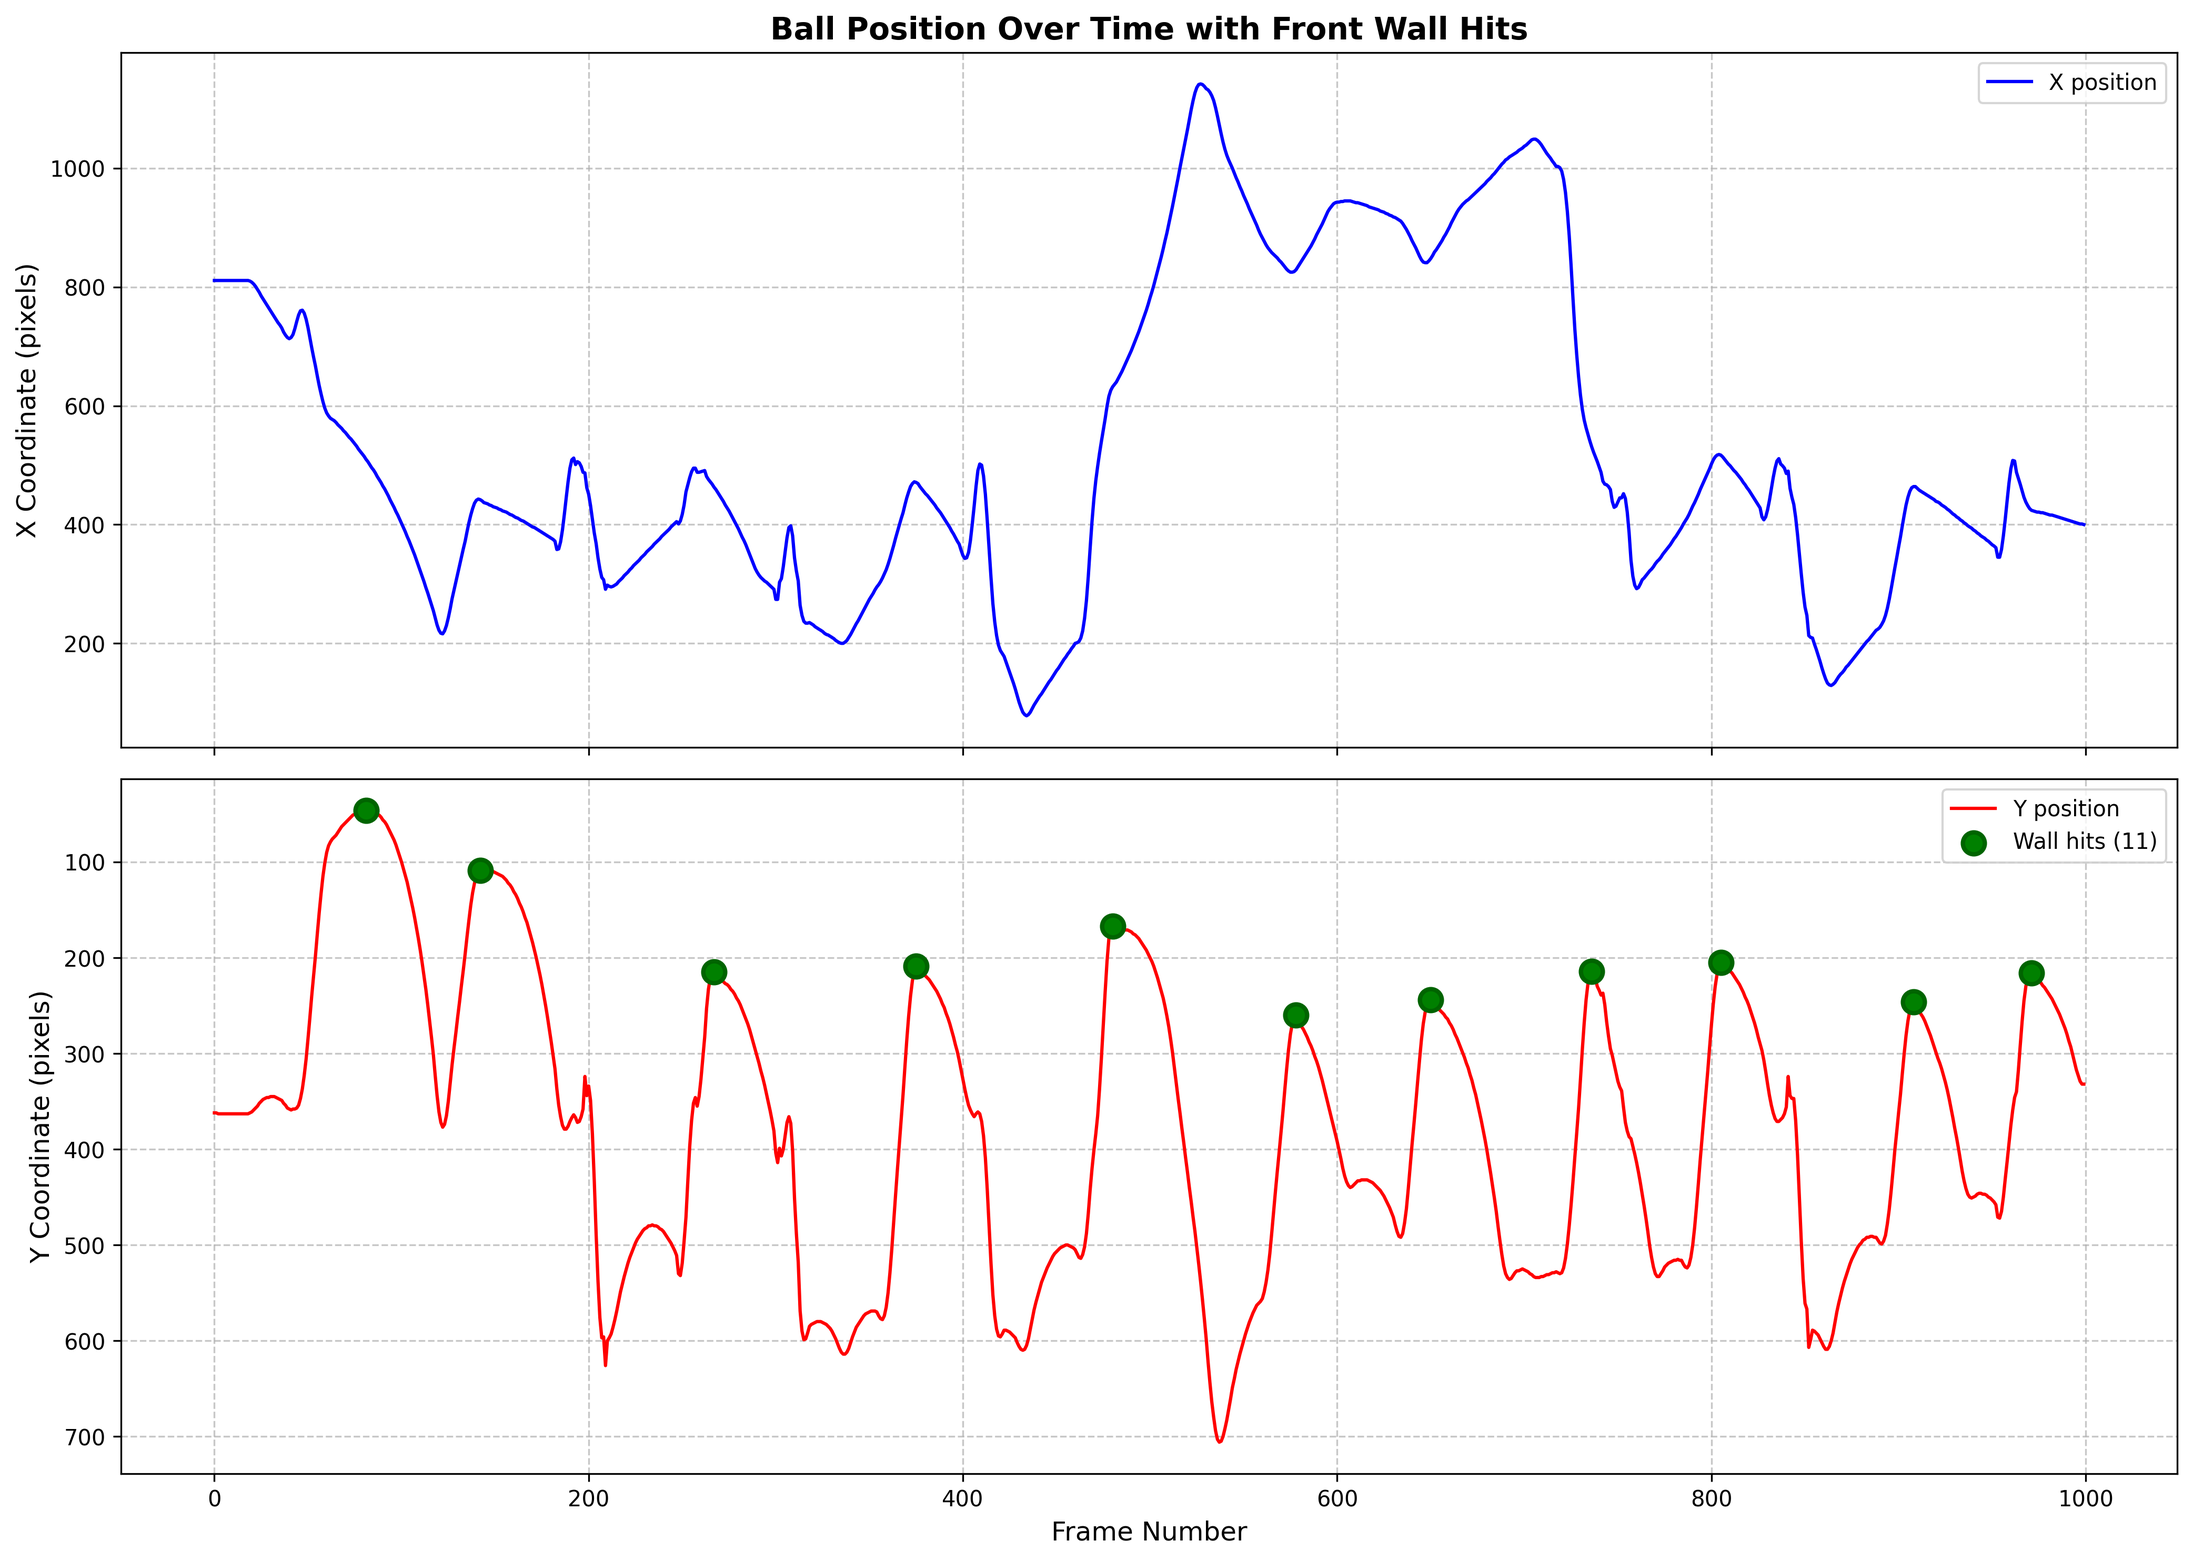
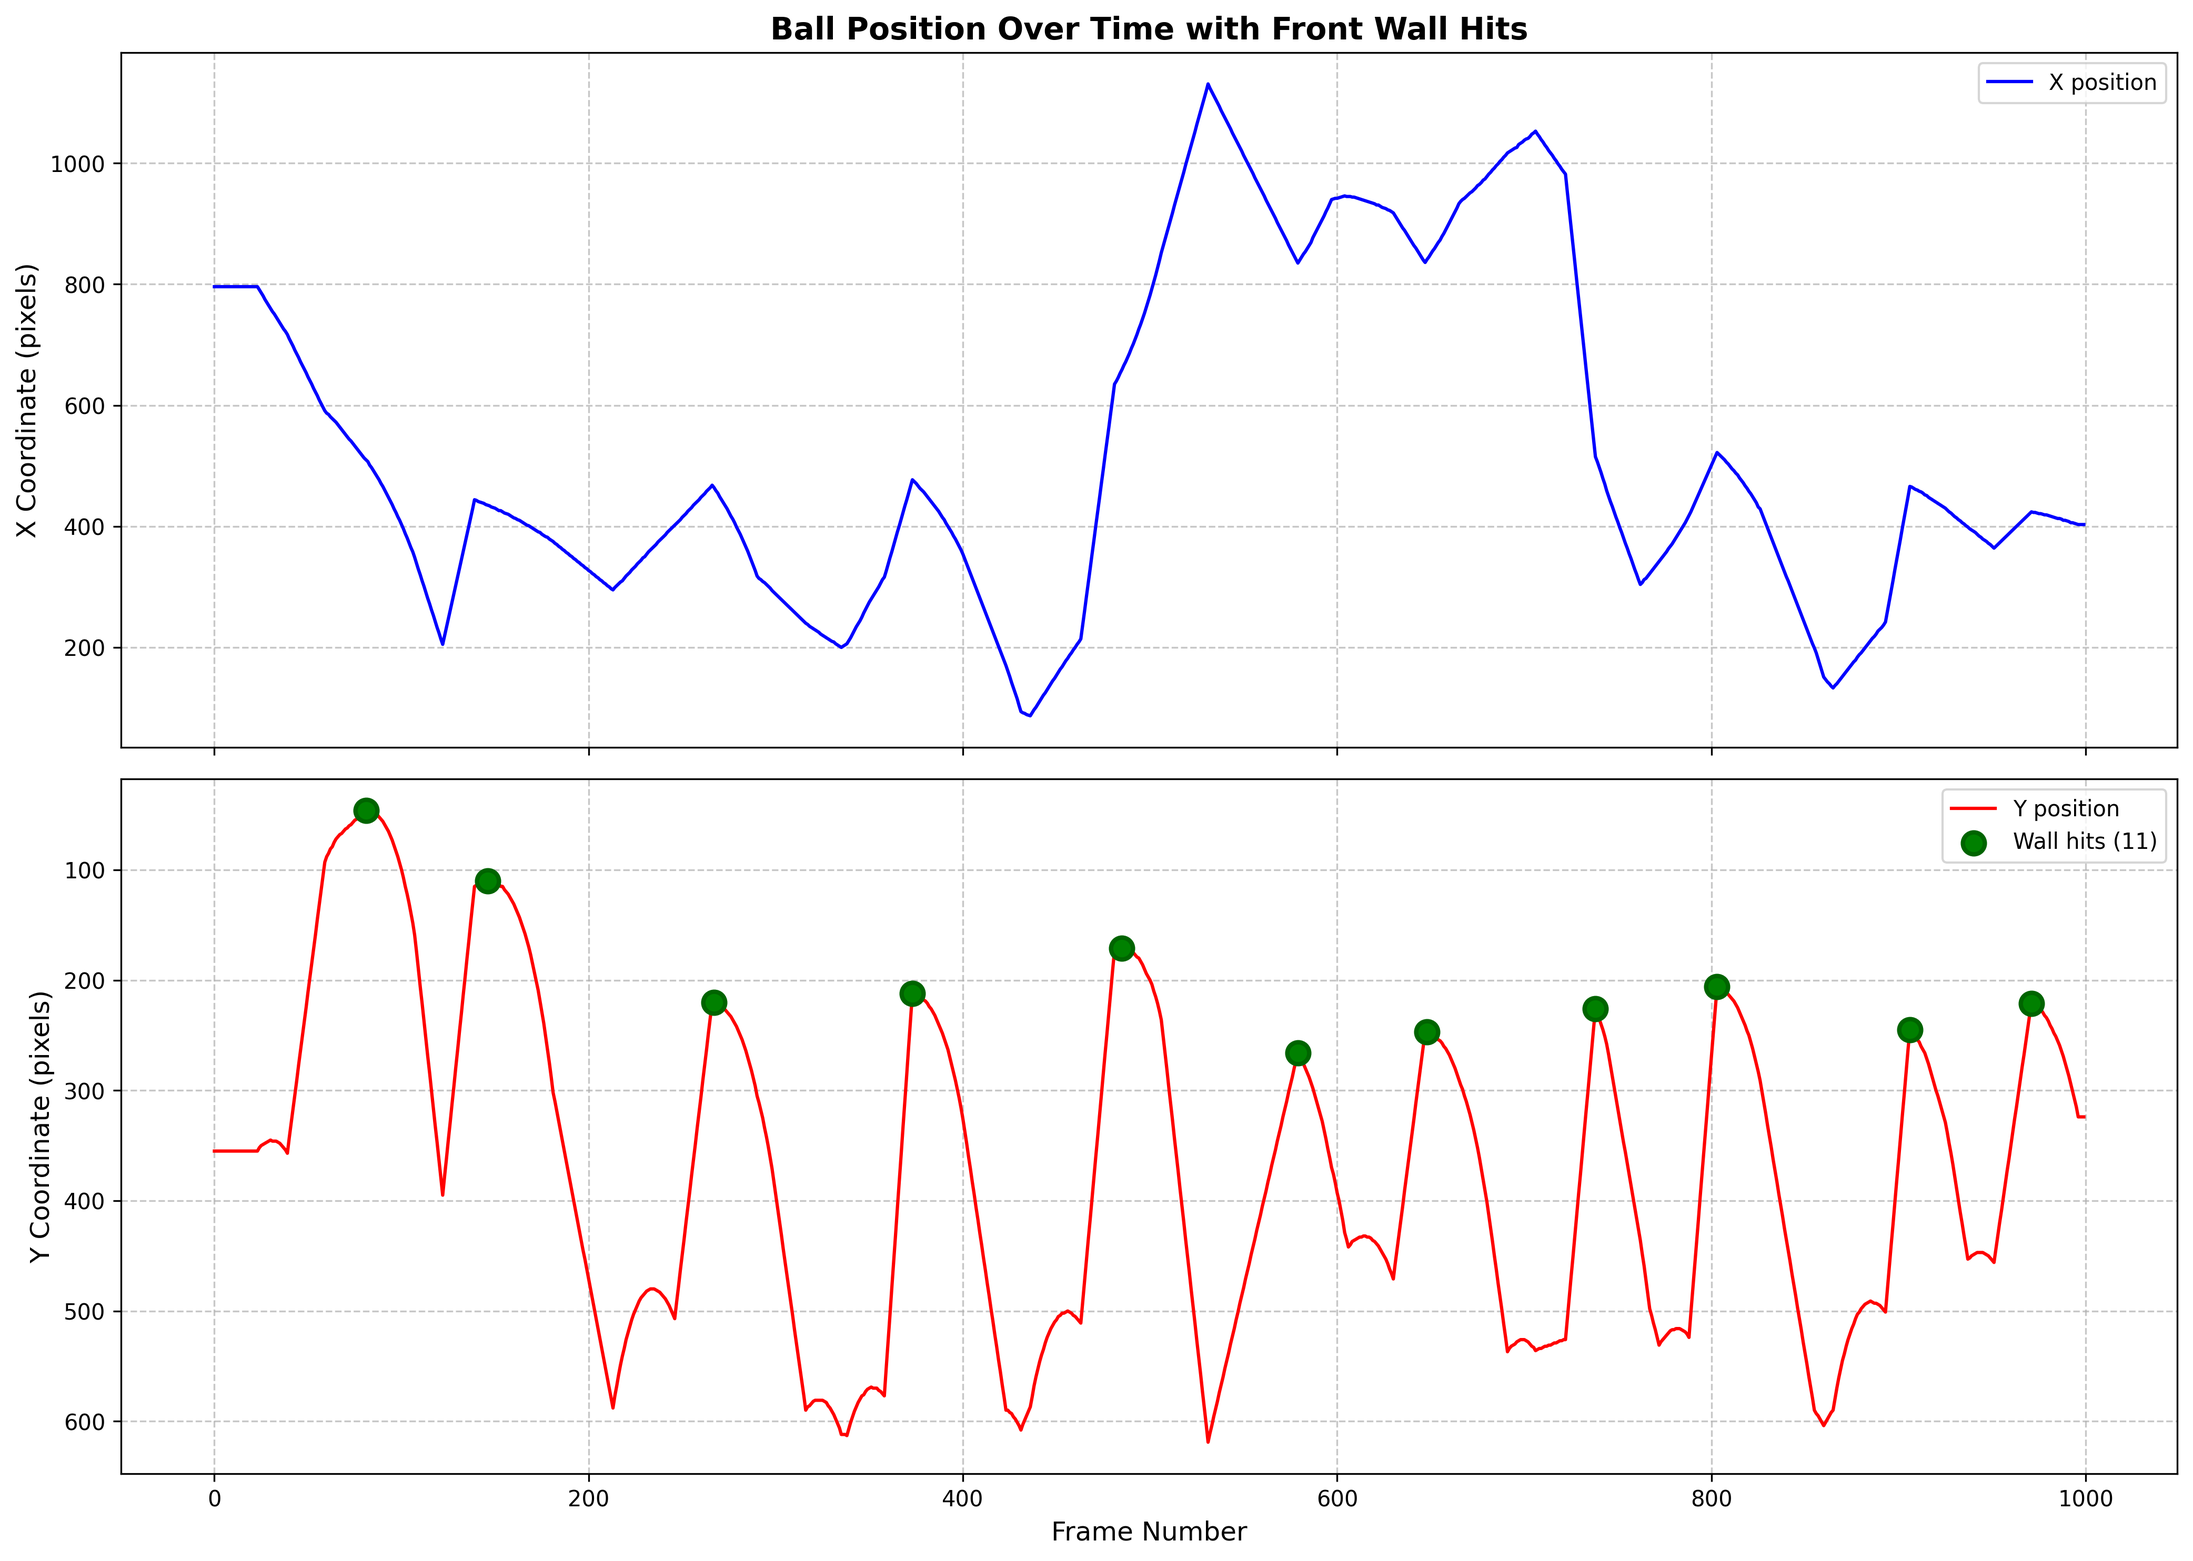
simplify postprocessing

diff --git a/cv-module/digitization/detection-tracking/ball-detection/implementation/utilities/postprocessing.py b/cv-module/digitization/detection-tracking/ball-detection/implementation/utilities/postprocessing.py
@@ -1,11 +1,10 @@
 """
-Simple postprocessing for ball tracking data focused on wall hit detection.
+Simple postprocessing for ball tracking data.
 
-For detecting wall hits, we need clean Y-coordinate curves to see direction changes.
 This module provides:
-1. Outlier removal (removes position jumps from bad detections)
-2. Imputation (fills missing values)
-3. Smoothing (makes the position curve clean and clear)
+1. Motion filter (removes stationary detections - likely false positives)
+2. Outlier removal using rolling window distance check
+3. Linear interpolation for missing values
 """
 
 import numpy as np
@@ -13,19 +12,72 @@ from scipy.signal import savgol_filter, medfilt
 from typing import List, Tuple, Optional
 
 
-def remove_outliers(
+def remove_stationary_detections(
     positions: List[Tuple[Optional[float], Optional[float]]],
-    window: int = 7,
-    threshold: float = 2.5,
+    window: int = 15,
+    movement_threshold: float = 10,
 ) -> List[Tuple[Optional[float], Optional[float]]]:
-    """Remove outlier positions using median filtering.
+    """Remove detections that remain stationary (likely false positives).
 
-    Detects positions that deviate significantly from their local neighborhood.
+    If a detection stays in roughly the same position for multiple frames,
+    it's likely a static object being misdetected as a ball (e.g., circle on tin).
 
     Args:
         positions: List of (x, y) tuples
-        window: Size of local neighborhood to compare against
-        threshold: Number of standard deviations to be considered an outlier
+        window: Number of frames to check for movement (default: 15 frames)
+        movement_threshold: Maximum total movement in pixels to be considered stationary (default: 10 pixels)
+
+    Returns:
+        Positions with stationary detections marked as (None, None)
+    """
+    n = len(positions)
+    result = list(positions)
+
+    for i in range(n):
+        if positions[i][0] is None or positions[i][1] is None:
+            continue
+
+        current_x, current_y = positions[i]
+
+        # Get positions in the forward window
+        end = min(n, i + window)
+
+        # Collect valid positions in the window
+        window_positions = []
+        for j in range(i, end):
+            if positions[j][0] is not None and positions[j][1] is not None:
+                window_positions.append(positions[j])
+
+        if len(window_positions) < window // 2:
+            # Not enough frames to make a decision
+            continue
+
+        # Calculate max distance moved from current position
+        max_distance = 0
+        for wx, wy in window_positions:
+            dist = np.sqrt((current_x - wx) ** 2 + (current_y - wy) ** 2)
+            max_distance = max(max_distance, dist)
+
+        # If the detection barely moves, mark it as stationary (false positive)
+        if max_distance <= movement_threshold:
+            result[i] = (None, None)
+
+    return result
+
+
+def remove_outliers(
+    positions: List[Tuple[Optional[float], Optional[float]]],
+    window: int = 10,
+    threshold: float = 100,
+) -> List[Tuple[Optional[float], Optional[float]]]:
+    """Remove outlier positions using rolling window distance check.
+
+    Detects positions that are too far from the average position of neighbors.
+
+    Args:
+        positions: List of (x, y) tuples
+        window: Size of rolling window (default: 10 frames)
+        threshold: Maximum distance in pixels from average of neighbors (default: 100 pixels)
 
     Returns:
         Positions with outliers marked as (None, None)
@@ -33,37 +85,41 @@ def remove_outliers(
     n = len(positions)
     result = list(positions)
 
-    # Convert to arrays
-    x_coords = np.array([p[0] if p[0] is not None else np.nan for p in positions])
-    y_coords = np.array([p[1] if p[1] is not None else np.nan for p in positions])
+    for i in range(n):
+        if positions[i][0] is None or positions[i][1] is None:
+            continue
 
-    # Check each coordinate separately
-    for coords, axis in [(x_coords, 'x'), (y_coords, 'y')]:
-        for i in range(n):
-            if np.isnan(coords[i]):
-                continue
+        current_x, current_y = positions[i]
 
-            # Get local window
-            start = max(0, i - window // 2)
-            end = min(n, i + window // 2 + 1)
-            local = coords[start:end]
-            local = local[~np.isnan(local)]
+        # Get neighboring positions in the window
+        start = max(0, i - window // 2)
+        end = min(n, i + window // 2 + 1)
 
-            if len(local) < 3:
-                continue
+        neighbors = []
+        for j in range(start, end):
+            if j != i and positions[j][0] is not None and positions[j][1] is not None:
+                neighbors.append(positions[j])
 
-            # Check if point is an outlier compared to local median
-            median = np.median(local)
-            std = np.std(local)
+        if len(neighbors) < 2:
+            # Need at least 2 neighbors to calculate average
+            continue
 
-            if std > 0 and abs(coords[i] - median) > threshold * std:
-                result[i] = (None, None)
+        # Calculate average position of neighbors
+        avg_x = np.mean([nx for nx, ny in neighbors])
+        avg_y = np.mean([ny for nx, ny in neighbors])
+
+        # Calculate distance from current position to average of neighbors
+        distance = np.sqrt((current_x - avg_x) ** 2 + (current_y - avg_y) ** 2)
+
+        # If distance from average is >= threshold, mark as outlier
+        if distance >= threshold:
+            result[i] = (None, None)
 
     return result
 
 
 def impute_missing(
-    positions: List[Tuple[Optional[float], Optional[float]]]
+    positions: List[Tuple[Optional[float], Optional[float]]],
 ) -> List[Tuple[float, float]]:
     """Fill missing values using linear interpolation.
 
@@ -94,51 +150,10 @@ def impute_missing(
             valid_indices,
             valid_values,
             left=valid_values[0],
-            right=valid_values[-1]
+            right=valid_values[-1],
         )
 
     return [(int(x), int(y)) for x, y in zip(x_coords, y_coords)]
-
-
-def smooth_positions(
-    positions: List[Tuple[float, float]],
-    method: str = "savgol",
-    window: int = 7,
-    poly: int = 2,
-) -> List[Tuple[float, float]]:
-    """Smooth the position curve to make direction changes clear.
-
-    Args:
-        positions: List of (x, y) tuples
-        method: "savgol" (default) or "median"
-        window: Window size (must be odd)
-        poly: Polynomial order for savgol (2 or 3 recommended)
-
-    Returns:
-        Smoothed positions
-    """
-    if len(positions) < window:
-        return positions
-
-    # Ensure window is odd
-    if window % 2 == 0:
-        window += 1
-
-    x_coords = np.array([p[0] for p in positions], dtype=float)
-    y_coords = np.array([p[1] for p in positions], dtype=float)
-
-    if method == "savgol":
-        # Savitzky-Golay filter - good for preserving peaks and valleys
-        x_smooth = savgol_filter(x_coords, window, poly)
-        y_smooth = savgol_filter(y_coords, window, poly)
-    elif method == "median":
-        # Median filter - good for removing spikes
-        x_smooth = medfilt(x_coords, kernel_size=window)
-        y_smooth = medfilt(y_coords, kernel_size=window)
-    else:
-        return positions
-
-    return [(int(x), int(y)) for x, y in zip(x_smooth, y_smooth)]
 
 
 def postprocess_positions(
@@ -149,9 +164,9 @@ def postprocess_positions(
     """Simple 3-step postprocessing pipeline.
 
     Steps:
-    1. Remove outliers (bad detections)
-    2. Fill missing values (interpolation)
-    3. Smooth the curve (make Y direction changes clear)
+    1. Remove stationary detections (filters false positives like circles on tin)
+    2. Remove outliers using rolling window distance check
+    3. Fill missing values using linear interpolation
 
     Args:
         positions: Raw position data
@@ -159,7 +174,7 @@ def postprocess_positions(
         config: Configuration with postprocessing settings
 
     Returns:
-        Clean, smooth position data ready for wall hit detection
+        Clean position data with false positives removed and gaps interpolated
     """
     if not config.get("enabled", True):
         # If postprocessing disabled, just fill missing values
@@ -167,33 +182,34 @@ def postprocess_positions(
 
     print("Postprocessing ball positions...")
 
-    # Step 1: Remove outliers
+    # Step 1: Remove stationary detections (false positives)
+    motion_config = config.get("motion_filter", {})
+    if motion_config.get("enabled", True):
+        filtered = remove_stationary_detections(
+            positions,
+            window=motion_config.get("window", 15),
+            movement_threshold=motion_config.get("movement_threshold", 10),
+        )
+        n_stationary = sum(1 for i, p in enumerate(filtered) if p[0] is None and positions[i][0] is not None)
+        if n_stationary > 0:
+            print(f"  Removed {n_stationary} stationary detections (likely false positives)")
+    else:
+        filtered = positions
+
+    # Step 2: Remove outliers
     outlier_config = config.get("outlier_detection", {})
     cleaned = remove_outliers(
-        positions,
-        window=outlier_config.get("window", 7),
-        threshold=outlier_config.get("threshold", 2.5)
+        filtered,
+        window=outlier_config.get("window", 10),
+        threshold=outlier_config.get("threshold", 100),
     )
-    n_outliers = sum(1 for p in cleaned if p[0] is None)
+    n_outliers = sum(1 for i, p in enumerate(cleaned) if p[0] is None and filtered[i][0] is not None)
     if n_outliers > 0:
         print(f"  Removed {n_outliers} outliers")
 
-    # Step 2: Fill missing values
+    # Step 3: Fill missing values with interpolation
     imputed = impute_missing(cleaned)
-    print(f"  Filled missing values")
-
-    # Step 3: Smooth the curve
-    smoothing_config = config.get("smoothing", {})
-    if smoothing_config.get("enabled", True):
-        smoothed = smooth_positions(
-            imputed,
-            method=smoothing_config.get("method", "savgol"),
-            window=smoothing_config.get("window", 7),
-            poly=smoothing_config.get("poly", 2)
-        )
-        print(f"  Smoothed curve (window={smoothing_config.get('window', 7)})")
-    else:
-        smoothed = imputed
+    print(f"  Filled missing values with interpolation")
 
     print("Postprocessing complete!")
-    return smoothed
+    return imputed

diff --git a/cv-module/digitization/detection-tracking/ball-detection/implementation/models/rf/rf_tracker.py b/cv-module/digitization/detection-tracking/ball-detection/implementation/models/rf/rf_tracker.py
@@ -28,6 +28,7 @@ class RFTracker:
         rf_config = self.config.get("rf_model", {})
         model_id = rf_config.get("model_id", "squash-ball-detection-1lbti/1")
         api_key = rf_config.get("api_key", "56e6SM7rfayFBoIrsIFz")
+        self.confidence_threshold = rf_config.get("confidence_threshold", 0.75)
 
         # Load the Roboflow model
         self.model = get_model(model_id=model_id, api_key=api_key)
@@ -55,14 +56,16 @@ class RFTracker:
             max_confidence_idx = np.argmax(detections.confidence)
             detection = detections[[max_confidence_idx]]
 
-            # Get bounding box coordinates [x1, y1, x2, y2]
-            bbox = detection.xyxy[0]  # First element is the bounding box
-            x1, y1, x2, y2 = bbox
+            # Check if confidence meets threshold
+            if detection.confidence[0] >= self.confidence_threshold:
+                # Get bounding box coordinates [x1, y1, x2, y2]
+                bbox = detection.xyxy[0]  # First element is the bounding box
+                x1, y1, x2, y2 = bbox
 
-            # Calculate center of bounding box
-            x_center = int((x1 + x2) / 2)
-            y_center = int((y1 + y2) / 2)
+                # Calculate center of bounding box
+                x_center = int((x1 + x2) / 2)
+                y_center = int((y1 + y2) / 2)
 
-            return x_center, y_center
+                return x_center, y_center
 
         return None, None

diff --git a/cv-module/digitization/detection-tracking/ball-detection/implementation/evaluator.py b/cv-module/digitization/detection-tracking/ball-detection/implementation/evaluator.py
@@ -97,17 +97,17 @@ class BallTrackingEvaluator:
                 self.ball_positions, self.fps, self.config["postprocessing"]
             )
 
-        # Calculate velocities after postprocessing
-        self.velocities = []
-        for i in range(len(self.ball_positions)):
-            if i >= 1:
-                dist = distance.euclidean(
-                    self.ball_positions[i], self.ball_positions[i - 1]
-                )
-                velocity = dist * self.fps
-            else:
-                velocity = 0
-            self.velocities.append(velocity)
+            # Calculate velocities after postprocessing
+            self.velocities = []
+            for i in range(len(self.ball_positions)):
+                if i >= 1:
+                    dist = distance.euclidean(
+                        self.ball_positions[i], self.ball_positions[i - 1]
+                    )
+                    velocity = dist * self.fps
+                else:
+                    velocity = 0
+                self.velocities.append(velocity)
 
         # Detect wall hits BEFORE creating video (so we can mark them)
         if self.config["wall_hit_detection"]["enabled"]:
